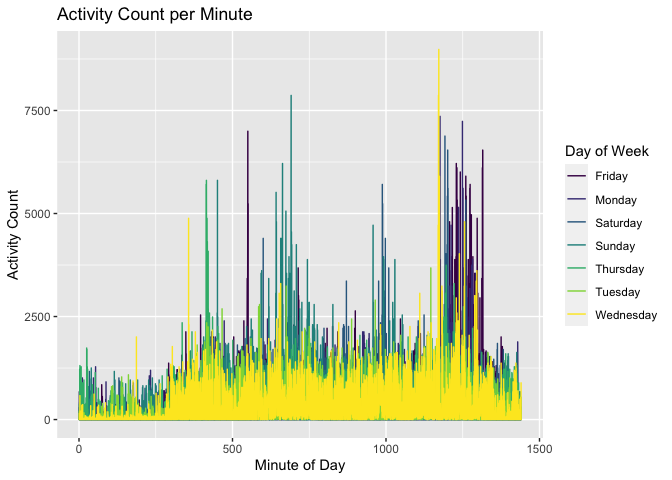
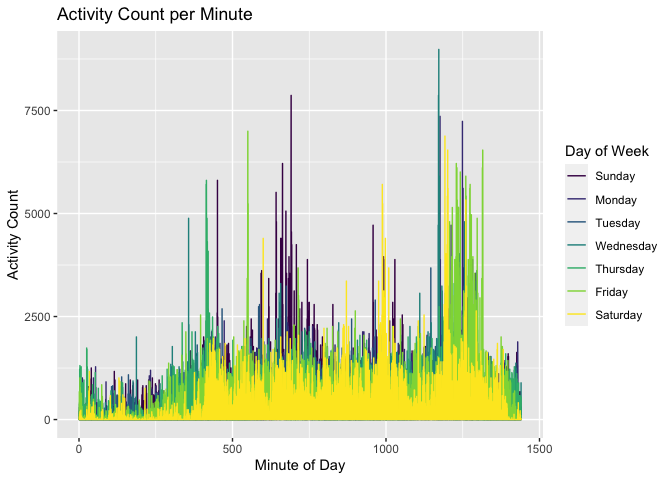
Final edits to homework code and comments

diff --git a/pm8105_hw3_pm3148.md b/pm8105_hw3_pm3148.md
@@ -135,7 +135,7 @@ instacart%>%
 The top three most popular items in the baking ingredients aisles are:
 Light Brown Sugar, Pure Baking Soda, and Cane Sugar. In dog food care,
 the three most popular items are Snack Sticks Chicken & Rice Recipe,
-Small Dog Biscuits, and Organix Chicken and Brown Rice Recipe. The most
+Organix Chicken and Brown Rice Recipe, and Small Dog Biscuits. The most
 popular items in packaged vegetable fruits are organic baby spinach,
 organic raspberries, and organic blueberries. The packaged vegetables
 fruits aisle category has the highest volume of products being sold with
@@ -219,6 +219,9 @@ brfss%>%
     ## 5 Poor
 
 ``` r
+#All responses are labelled in the same format
+
+#Change response to factor variable 
 brfss_cln<- brfss%>%
   filter(topic == "Overall Health")%>%
   mutate(response = factor(response, levels = c("Poor", "Fair", "Good", "Very good", "Excellent")))
@@ -272,7 +275,8 @@ brfss_cln%>%
 
 In 2002, there were 6 states observed at 7 or more locations: CT, FL,
 MA, NC, NJ, and PA. In 2010, there were 14 states observed at 7 or more
-locations.
+locations: CA, CO, FL, MA, MD, NC, NE, NJ, NY, OH, PA, SC, TX, WA. FL,
+MA, NC, NJ, and PA were observed at 7 or more locations in both years.
 
 ``` r
 ##Construct a dataset that is limited to Excellent responses, and contains, year, state, and a variable that averages the data_value across locations within a state. Make a “spaghetti” plot of this average value over time within a state (that is, make a plot showing a line for each state across years – the geom_line geometry and group aesthetic will help).
@@ -296,9 +300,10 @@ brfss_cln%>%
 ![](pm8105_hw3_pm3148_files/figure-gfm/unnamed-chunk-9-1.png)<!-- -->
 
 Plot is showing all of the state averages over time in years. No obvious
-trends in this plot. Not the most informative plot. It might be better
-to separate by region (ex. Northeast, Southeast, etc.) so that you can
-pick up on distinct trends.
+trends in this plot. There is a lot of variability in average value year
+to year for each state. Not the most informative plot. It might be
+better to separate by region (ex. Northeast, Southeast, etc.) so that
+you can pick up on distinct trends.
 
 ``` r
 # Make a two-panel plot showing, for the years 2006, and 2010, distribution of data_value for responses (“Poor” to “Excellent”) among locations in NY State.
@@ -330,9 +335,9 @@ brfss_cln%>%
 
 ![](pm8105_hw3_pm3148_files/figure-gfm/unnamed-chunk-10-2.png)<!-- -->
 
-Plot shows that there is not much of a discrepancy between years 2010
-and 2006. Responses for Good, Very Good, and Excellent had higher
-data\_value scores than Fair and Poor.
+Plot shows that there is not much of a discrepancy in data values
+between years 2010 and 2006. Responses for Good, Very Good, and
+Excellent had generally higher data\_value scores than Fair and Poor.
 
 ## Problem 3
 
@@ -353,9 +358,11 @@ accel<- read_csv('./data/accel_data.csv')
     ## ℹ Specify the column types or set `show_col_types = FALSE` to quiet this message.
 
 ``` r
+#Add weekend variable 
 accel<- accel%>%
   janitor::clean_names()%>%
-  mutate(weekend = ifelse(day =="Saturday" | day =="Sunday", "weekend", "weekday"))
+  mutate(weekend = ifelse(day =="Saturday" | day =="Sunday", "weekend", "weekday"), 
+         day = factor(day, levels = c("Sunday", "Monday", "Tuesday", "Wednesday", "Thursday","Friday", "Saturday")))
 ```
 
 Resulting dataset has 35 variables and 1444 observations. The variables
@@ -364,7 +371,29 @@ the 24 hour period, and the weekend variable which classifies the
 observation as a weekend or weekday.
 
 ``` r
-#Total Activity Variable per Day 
+#Total Activity Variable per Day of Week 
+accel%>%
+  mutate(activity_sum_min = (accel%>%
+                               select(starts_with("activity"))%>%
+                               rowSums()))%>%
+  select(day, activity_sum_min)%>%
+  group_by(day)%>%
+  summarise(activity_sum = sum(activity_sum_min))%>%
+knitr::kable()
+```
+
+| day       | activity\_sum |
+|:----------|--------------:|
+| Sunday    |       1919213 |
+| Monday    |       1858699 |
+| Tuesday   |       1799238 |
+| Wednesday |       2129772 |
+| Thursday  |       2091151 |
+| Friday    |       2291711 |
+| Saturday  |       1369237 |
+
+``` r
+#Total Activity per Day 
 accel%>%
   mutate(activity_sum_min = (accel%>%
                                select(starts_with("activity"))%>%
@@ -393,14 +422,27 @@ accel%>%
                                select(starts_with("activity"))%>%
                                rowSums()))%>%
   select(day_id, activity_sum_min)%>%
-  ggplot(aes(x = day_id, y = activity_sum_min)) + geom_point()+geom_line()
+  ggplot(aes(x = day_id, y = activity_sum_min)) + 
+  geom_point()+
+  geom_line()+
+  geom_smooth()+
+  xlab("Day")+
+  ylab("Activity Sum")
 ```
 
+    ## `geom_smooth()` using method = 'loess' and formula 'y ~ x'
+
 ![](pm8105_hw3_pm3148_files/figure-gfm/unnamed-chunk-12-1.png)<!-- -->
+Looking at the the table for activity per Day of Week, we can see that
+Friday has the highest activity and then Wednesday followed by Thursday.
+Saturday has the lowest activity.
 
 There are certain days with only 1440 activity recorded. These may be
 days where accelerometer did not accurately pick up movement/activity
-data. There are no obvious trends apparent.
+data. I have included a plot of the data values by day ID to have a
+visual representation. It seems that in the first 15 days there is
+increasing activity and after day 15 there is a downward trend which
+picks back up around day 25.
 
 ``` r
 #Accelerometer data allows the inspection activity over the course of the day. Make a single-panel plot that shows the 24-hour activity time courses for each day and use color to indicate day of the week. Describe in words any patterns or conclusions you can make based on this graph.
